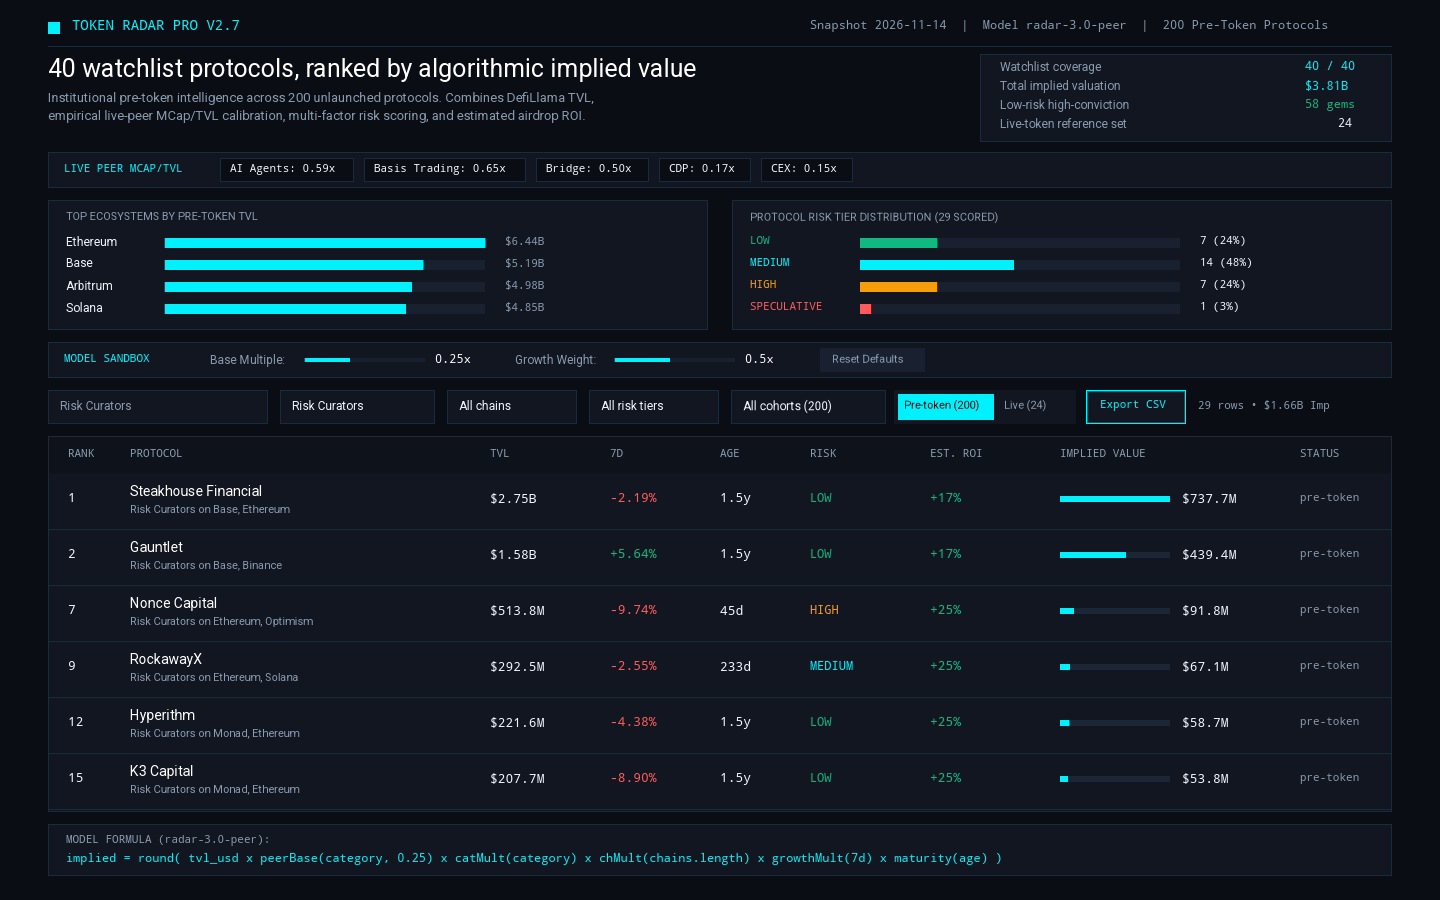
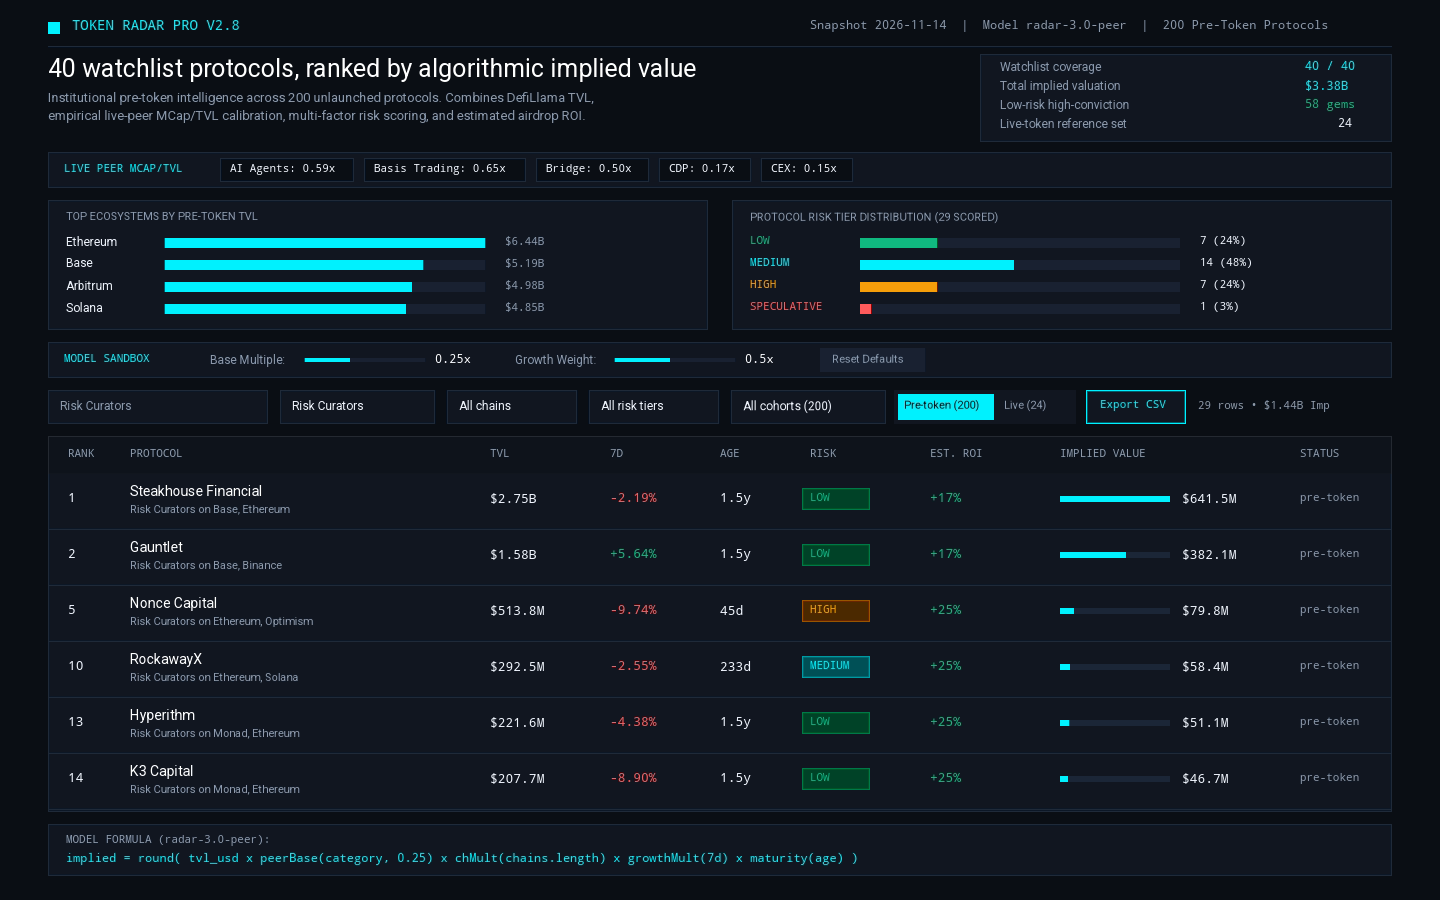
feat(v2.8): pure empirical peerBase model (zero hardcoded category premiums) & pill badge UI

Changed region(s): [[0.5312, 0.5289, 0.625, 0.9022], [0.3125, 0.9333, 0.6875, 0.9644]]

diff --git a/dashboard/app.js b/dashboard/app.js
@@ -90,7 +90,7 @@
     var growthMult = 1 + (growth / 100) * gw;
     var age = row.age_days === null || row.age_days === undefined ? m.unknown_age_days : row.age_days;
     var maturity = m.maturity_floor + (clamp(age, 0, m.maturity_days) / m.maturity_days) * m.maturity_range;
-    return Math.max(1, Math.round(row.tvl_usd * peerBase * categoryMultiplier(row.category) * chainMultiplier(row.chains) * growthMult * maturity));
+    return Math.max(1, Math.round(row.tvl_usd * peerBase * chainMultiplier(row.chains) * growthMult * maturity));
   }
 
   function riskOf(row) {
@@ -273,7 +273,7 @@
     return el('header', { class: 'top' },
       el('div', { class: 'brand' },
         el('span', { class: 'mark', 'aria-hidden': 'true' }),
-        el('span', { class: 'brand-name', text: 'Token Radar Pro v2.7' })
+        el('span', { class: 'brand-name', text: 'Token Radar Pro v2.8' })
       ),
       el('div', { class: 'top-meta' },
         el('span', { text: 'Snapshot ' + DATA.as_of }),
@@ -589,7 +589,7 @@
       el('h2', { text: 'Quantitative Valuation & Risk Methodology (' + DATA.model_version + ')' }),
       el('p', { class: 'sub', text: 'Every pre-token protocol is evaluated deterministically from frozen snapshot metrics with zero manual overrides or name special-casing.' }),
       el('div', { class: 'formula' },
-        'implied = round( tvl_usd x peerBase(category, ' + state.baseMult.toFixed(2) + ') x catMult(category) x chMult(chains.length) x (1 + clamp(change_7d, ' + m.growth_floor + ', ' + m.growth_cap + ')/100 x ' + state.growthWeight.toFixed(1) + ') x maturity(age_days) )'
+        'implied = round( tvl_usd x peerBase(category, ' + state.baseMult.toFixed(2) + ') x chMult(chains.length) x (1 + clamp(change_7d, ' + m.growth_floor + ', ' + m.growth_cap + ')/100 x ' + state.growthWeight.toFixed(1) + ') x maturity(age_days) )'
       ),
       el('p', { class: 'sub', text: 'peerBase(category) uses median MCap/TVL of live-token peers in the same snapshot (clamped [0.15, 0.85]). Risk Score (5-95) combines 7d TVL velocity, chain diversification, sector risk, and protocol age.' })
     );
@@ -630,7 +630,7 @@
         el('div', null, el('span', { text: 'TVL' }), el('b', { class: 'num', text: fmtUsd(row.tvl_usd) })),
         el('div', null, el('span', { text: '7d Growth' }), el('b', { class: 'num', text: fmtPct(row.change_7d) })),
         el('div', null, el('span', { text: 'Age / Peer MCap/TVL' }), el('b', { class: 'num', text: fmtAge(row.age_days) + ' / ' + peerBase.toFixed(2) + 'x' })),
-        el('div', null, el('span', { text: 'Category / Chain Mult' }), el('b', { class: 'num', text: categoryMultiplier(row.category).toFixed(2) + 'x / ' + chainMultiplier(row.chains).toFixed(2) + 'x' })),
+        el('div', null, el('span', { text: 'Peer MCap/TVL / Chain Mult' }), el('b', { class: 'num', text: peerBase.toFixed(2) + 'x / ' + chainMultiplier(row.chains).toFixed(2) + 'x' })),
         el('div', null, el('span', { text: 'Growth / Maturity Mult' }), el('b', { class: 'num', text: row.growth_multiplier + 'x / ' + row.maturity_multiplier + 'x' })),
         el('div', null, el('span', { text: 'Implied Value' }), el('b', { class: 'num pos', text: fmtUsd(imp) }))
       ),

diff --git a/dashboard/app.css b/dashboard/app.css
@@ -162,7 +162,7 @@ dialog.detail::backdrop { background: rgba(5, 8, 12, 0.78); backdrop-filter: blu
 .equation > div { background: var(--canvas); border: 1px solid var(--border); border-radius: 8px; padding: var(--step-2) var(--step-3); display: grid; gap: 2px; }
 .equation span { font-size: 11px; color: var(--muted); }
 .equation b { font-size: 14px; color: #ffffff; }
-.steps { margin: 0; padding-left: 0; list-style: none; display: grid; grid-template-columns: repeat(2, minmax(0, 1fr)); gap: var(--step-2); }
+.steps { margin: 0; padding-left: 20px; display: grid; gap: var(--step-2); }
 .steps li { background: var(--canvas); border: 1px solid var(--border); border-radius: 8px; padding: var(--step-2) var(--step-3); display: grid; gap: 2px; }
 .steps .cost { font-family: var(--font-num); font-size: 11px; color: var(--accent); }
 .empty { padding: var(--step-6); text-align: center; color: var(--muted); }

diff --git a/lib/model.ts b/lib/model.ts
@@ -229,12 +229,11 @@ export function impliedValue(
   const growthMult = 1 + (growthPct / 100) * model.growth_weight;
   const ageForModel = age ?? model.unknown_age_days;
   const maturityMult = model.maturity_floor + (Math.min(Math.max(ageForModel, 0), model.maturity_days) / model.maturity_days) * model.maturity_range;
-  const catMult = categoryMultiplier(protocol.category);
   const chMult = chainMultiplier(protocol.chains);
   const peerBase = protocol.category && peerMultiples?.has(protocol.category)
     ? peerMultiples.get(protocol.category)!
     : model.base_multiple;
-  const base = protocol.tvl_usd * peerBase * catMult * chMult;
+  const base = protocol.tvl_usd * peerBase * chMult;
   const implied = Math.max(1, Math.round(base * growthMult * maturityMult));
   return { implied, growthPct, growthMult, maturityMult, age };
 }
